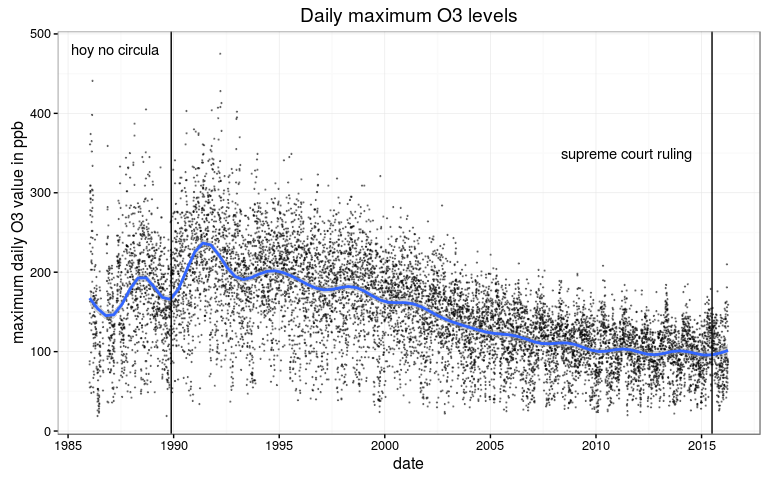
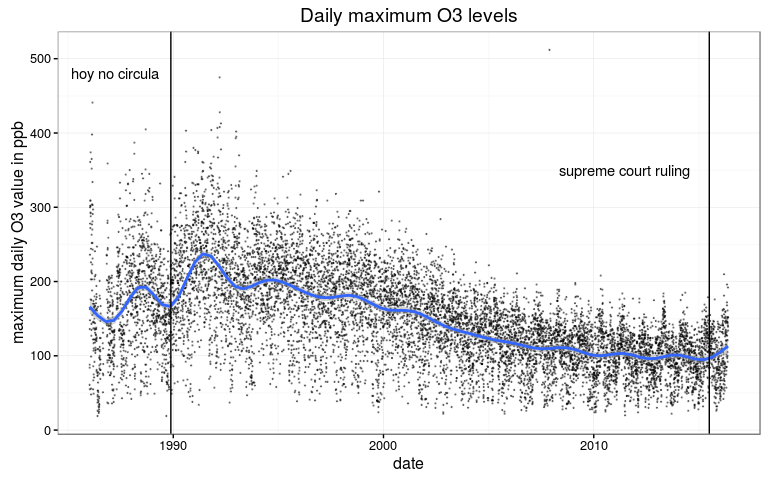
update readme

diff --git a/readme.md b/readme.md
@@ -37,7 +37,7 @@ Master: [![Travis-CI Build Status](https://travis-ci.org/diegovalle/aire.zmvm.sv
 What does it do?
 ----------------
 
-This package downloads pollution data for the Mexico City metro area. It can download real-time, daily maximum, minimum, or average for each of the pollution measuring stations or geographical zones in the Zona Metropolitana del Valle de México (greater Mexico City)
+This package downloads pollution data for the Mexico City metro area. It can download real-time, daily maximum, minimum, or hourly average data for each of the pollution measuring stations or geographical zones in the Zona Metropolitana del Valle de México (greater Mexico City).
 
 Installation
 ------------
@@ -70,18 +70,18 @@ o3 <- get_station_data(criterion = "MAXIMOS", # Can be one of MAXIMOS (daily max
                                                 # or HORARIOS (hourly average)
                        pollutant = "O3", # Can be one of "SO2", "CO", "NOX", "NO2", "NO", "O3", 
                                          # "PM10", "PM25", "WSP", "WDR", "TMP", "RH"
-                       year = 2015:2016) # A numeric vector, the earliest year allowed is 1986
+                       year = 1986:2016) # A numeric vector, the earliest year allowed is 1986
 knitr::kable(head(o3))
 ```
 
 | date       | station\_code | pollutant | unit |  value|
 |:-----------|:--------------|:----------|:-----|------:|
-| 2015-01-01 | ACO           | O3        | ppb  |     54|
-| 2015-01-01 | AJM           | O3        | ppb  |     83|
-| 2015-01-01 | AJU           | O3        | ppb  |     42|
-| 2015-01-01 | ATI           | O3        | ppb  |     98|
-| 2015-01-01 | CAM           | O3        | ppb  |     75|
-| 2015-01-01 | CCA           | O3        | ppb  |     75|
+| 1986-01-01 | AZC           | O3        | ppb  |     NA|
+| 1986-01-01 | CES           | O3        | ppb  |     NA|
+| 1986-01-01 | HAN           | O3        | ppb  |     NA|
+| 1986-01-01 | MER           | O3        | ppb  |     NA|
+| 1986-01-01 | PED           | O3        | ppb  |     NA|
+| 1986-01-01 | PLA           | O3        | ppb  |     NA|
 
 ``` r
 # Daily max among all base stations
@@ -111,4 +111,4 @@ ggplot(o3_max,
   theme_bw()
 ```
 
-![](readme_files/figure-markdown_github/unnamed-chunk-1-1.png)<!-- -->
+![](readme_files/figure-markdown_github/unnamed-chunk-1-1.png)
